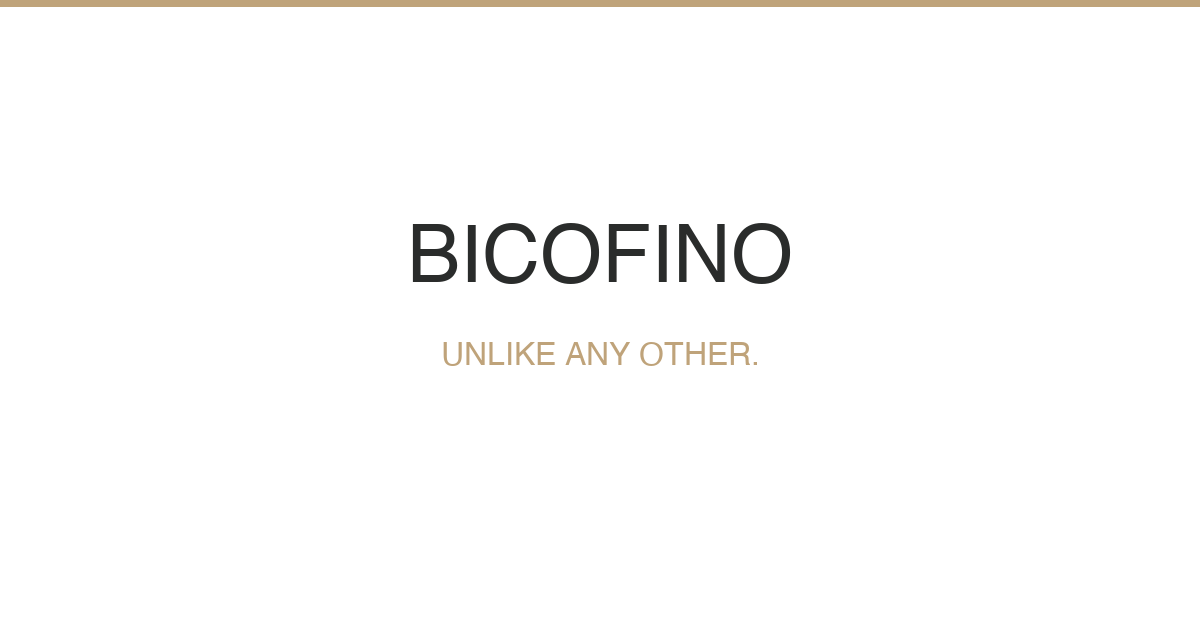
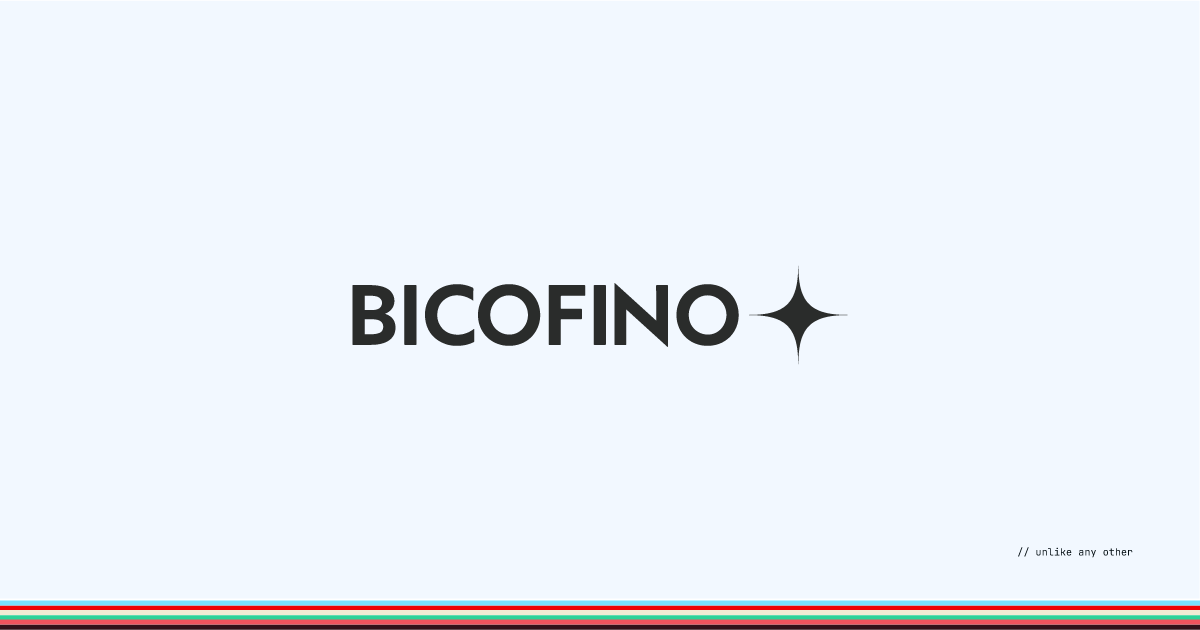
feat(web): vídeos on-field/off-field, fix responsivo mobile, textos hero
Fase 6: vídeos 500×500 inseridos em on-field e off-field; textos hero
reescritos (br/en/it); footer copyright 10px; herovideo2.webm no hero;
sponsor-emirates.svg e og-image.png atualizados.

Fase 7: fix overflow horizontal mobile — adicionado width:100% nos
sections de on-field, off-field e foundation (marginInline:auto dentro
de flex-column desativa align-self:stretch); overflow-x:clip no html
como proteção extra. HANDOFF atualizado.

diff --git a/apps/web/app/(sections)/off-field/page.tsx b/apps/web/app/(sections)/off-field/page.tsx
@@ -26,6 +26,7 @@ export default function OffFieldPage() {
       <main style={{ flex: 1, background: 'var(--bf-surface)', display: 'flex', flexDirection: 'column' }}>
         <section
           style={{
+            width: '100%',
             maxWidth: 720,
             marginInline: 'auto',
             paddingInline: 'var(--bf-space-lg)',
@@ -61,14 +62,39 @@ export default function OffFieldPage() {
           <p
             style={{
               fontFamily: '"Inter", ui-sans-serif, sans-serif',
-              fontSize: 18,
-              lineHeight: 1.65,
+              fontSize: 12,
+              lineHeight: 1.45,
+              fontWeight: 400,
+              letterSpacing: 0,
               color: 'var(--bf-text-secondary)',
-              marginBottom: 'calc(var(--bf-space-lg) * 2)',
+              marginBottom: 'var(--bf-space-lg)',
             }}
           >
             {t('off-field.intro')}
           </p>
+
+          <div
+            style={{
+              width: 500,
+              height: 500,
+              maxWidth: '100%',
+              overflow: 'hidden',
+              marginBottom: 'calc(var(--bf-space-lg) * 2)',
+            }}
+            aria-hidden="true"
+          >
+            <video
+              autoPlay
+              muted
+              loop
+              playsInline
+              aria-hidden="true"
+              style={{ width: '100%', height: '100%', objectFit: 'cover', display: 'block' }}
+            >
+              <source src="/media/video-offfield.webm" type="video/webm" />
+              <source src="/media/video-offfield.mp4" type="video/mp4" />
+            </video>
+          </div>
 
           <div style={{ marginBottom: 'calc(var(--bf-space-lg) * 2)' }}>
             <Accordion items={items} />
@@ -80,7 +106,7 @@ export default function OffFieldPage() {
               fontSize: 11,
               letterSpacing: '0.14em',
               textTransform: 'uppercase',
-              color: 'var(--bf-text-subtle)',
+              color: 'var(--bf-power-black)',
             }}
           >
             // {t('off-field.closing')}

diff --git a/apps/web/app/(sections)/on-field/page.tsx b/apps/web/app/(sections)/on-field/page.tsx
@@ -25,6 +25,7 @@ export default function OnFieldPage() {
       <main style={{ flex: 1, background: 'var(--bf-surface)', display: 'flex', flexDirection: 'column' }}>
         <section
           style={{
+            width: '100%',
             maxWidth: 720,
             marginInline: 'auto',
             paddingInline: 'var(--bf-space-lg)',
@@ -60,14 +61,39 @@ export default function OnFieldPage() {
           <p
             style={{
               fontFamily: '"Inter", ui-sans-serif, sans-serif',
-              fontSize: 18,
-              lineHeight: 1.65,
+              fontSize: 12,
+              lineHeight: 1.45,
+              fontWeight: 400,
+              letterSpacing: 0,
               color: 'var(--bf-text-secondary)',
-              marginBottom: 'calc(var(--bf-space-lg) * 2)',
+              marginBottom: 'var(--bf-space-lg)',
             }}
           >
             {t('on-field.intro')}
           </p>
+
+          <div
+            style={{
+              width: 500,
+              height: 500,
+              maxWidth: '100%',
+              overflow: 'hidden',
+              marginBottom: 'calc(var(--bf-space-lg) * 2)',
+            }}
+            aria-hidden="true"
+          >
+            <video
+              autoPlay
+              muted
+              loop
+              playsInline
+              aria-hidden="true"
+              style={{ width: '100%', height: '100%', objectFit: 'cover', display: 'block' }}
+            >
+              <source src="/media/video-onfield.webm" type="video/webm" />
+              <source src="/media/video-onfield.mp4" type="video/mp4" />
+            </video>
+          </div>
 
           <div style={{ marginBottom: 'calc(var(--bf-space-lg) * 2)' }}>
             <Accordion items={items} />
@@ -79,7 +105,7 @@ export default function OnFieldPage() {
               fontSize: 11,
               letterSpacing: '0.14em',
               textTransform: 'uppercase',
-              color: 'var(--bf-text-subtle)',
+              color: 'var(--bf-power-black)',
             }}
           >
             // {t('on-field.closing')}

diff --git a/apps/web/content/br.ts b/apps/web/content/br.ts
@@ -15,11 +15,11 @@ export const br = {
   // Hero — Mensch
   'home.mensch.eyebrow': 'UNLIKE ANY OTHER.',
   'home.mensch.p1':
-    'O Bicofino Group reúne o que raramente se encontra junto: talento real, curadoria precisa e acesso que leva anos para construir.',
+    'Esporte fala a língua da emoção. Marca fala a língua do consumo. Entre uma e outra mora um dos maiores potenciais inexplorados do marketing — e é nele que o Bicofino opera.',
   'home.mensch.p2':
-    'Operamos em duas frentes — On Field e Off Field — com o mesmo padrão de exigência, o mesmo vocabulário visual e o mesmo compromisso com o detalhe.',
+    'Conectamos atletas, personalidades e marcas premium em ativações que respeitam os dois ritmos. On Field e Off Field, com o mesmo padrão de exigência, o mesmo vocabulário visual, o mesmo compromisso com o detalhe.',
   'home.mensch.p3':
-    'Cada conexão é estruturada para que todos os lados ganhem. Cada entrega passa pelo filtro do que é verdadeiramente bom.',
+    'Talento real. Acesso que leva anos para construir. Curadoria em cada conexão. Cada entrega passa pelo filtro do que é verdadeiramente bom.',
 
   // Footer
   'footer.address': 'av. pedroso de morais 1619 | 05019 001 | pinheiros | são paulo | sp | brasil',

diff --git a/apps/web/content/en.ts b/apps/web/content/en.ts
@@ -15,11 +15,11 @@ export const en = {
   // Hero — Mensch
   'home.mensch.eyebrow': 'UNLIKE ANY OTHER.',
   'home.mensch.p1':
-    'Bicofino Group brings together what rarely coexists: genuine talent, precise curation, and access that takes years to build.',
+    'Sport speaks the language of emotion. Brand speaks the language of consumption. Between the two lies one of marketing\'s greatest untapped potentials — and that is where Bicofino operates.',
   'home.mensch.p2':
-    'We operate across two fronts — On Field and Off Field — with the same standard of excellence, the same visual language, and the same commitment to detail.',
+    'We connect athletes, personalities and premium brands in activations that respect both rhythms. On Field and Off Field, with the same standard of excellence, the same visual language, the same commitment to detail.',
   'home.mensch.p3':
-    'Every connection is structured so all parties win. Every deliverable passes the filter of what is truly good.',
+    'Genuine talent. Access that takes years to build. Curation in every connection. Every deliverable passes the filter of what is truly good.',
 
   // Footer
   'footer.address': 'av. pedroso de morais 1619 | 05019 001 | pinheiros | são paulo | sp | brasil',

diff --git a/apps/web/content/it.ts b/apps/web/content/it.ts
@@ -15,11 +15,11 @@ export const it = {
   // Hero — Mensch
   'home.mensch.eyebrow': 'UNLIKE ANY OTHER.',
   'home.mensch.p1':
-    'Bicofino Group riunisce ciò che raramente coesiste: talento autentico, cura precisa e accesso che richiede anni per essere costruito.',
+    'Lo sport parla la lingua dell\'emozione. Il brand parla la lingua del consumo. Tra i due risiede uno dei più grandi potenziali inesplorati del marketing — ed è lì che opera Bicofino.',
   'home.mensch.p2':
-    'Operiamo su due fronti — On Field e Off Field — con lo stesso standard di eccellenza, lo stesso linguaggio visivo e lo stesso impegno per il dettaglio.',
+    'Connettiamo atleti, personalità e brand premium in attivazioni che rispettano entrambi i ritmi. On Field e Off Field, con lo stesso standard di eccellenza, lo stesso linguaggio visivo, lo stesso impegno per il dettaglio.',
   'home.mensch.p3':
-    'Ogni connessione è strutturata affinché tutte le parti vincano. Ogni consegna passa il filtro di ciò che è genuinamente buono.',
+    'Talento autentico. Accesso che richiede anni per essere costruito. Cura in ogni connessione. Ogni consegna passa il filtro di ciò che è genuinamente buono.',
 
   // Footer
   'footer.address': 'av. pedroso de morais 1619 | 05019 001 | pinheiros | são paulo | sp | brasil',

diff --git a/apps/web/app/(sections)/foundation/page.tsx b/apps/web/app/(sections)/foundation/page.tsx
@@ -25,6 +25,7 @@ export default function FoundationPage() {
       <main style={{ flex: 1, background: 'var(--bf-surface)', display: 'flex', flexDirection: 'column' }}>
         <section
           style={{
+            width: '100%',
             maxWidth: 720,
             marginInline: 'auto',
             paddingInline: 'var(--bf-space-lg)',
@@ -79,7 +80,7 @@ export default function FoundationPage() {
               fontSize: 11,
               letterSpacing: '0.14em',
               textTransform: 'uppercase',
-              color: 'var(--bf-text-subtle)',
+              color: 'var(--bf-power-black)',
             }}
           >
             // {t('foundation.closing')}

diff --git a/apps/web/components/home/HeroBlock.tsx b/apps/web/components/home/HeroBlock.tsx
@@ -45,7 +45,7 @@ export function HeroBlock() {
                 aria-hidden="true"
                 style={{ width: '100%', height: '100%', objectFit: 'cover', display: 'block' }}
               >
-                <source src="/media/herovideo.webm" type="video/webm" />
+                <source src="/media/herovideo2.webm" type="video/webm" />
                 <source src="/media/herovideo.mp4" type="video/mp4" />
                 {/* eslint-disable-next-line @next/next/no-img-element */}
                 <img src="/media/herovideo.gif" alt="" style={{ width: '100%', height: '100%', objectFit: 'cover', display: 'block' }} />

diff --git a/apps/web/components/layout/Footer.tsx b/apps/web/components/layout/Footer.tsx
@@ -136,7 +136,7 @@ export function Footer() {
 
         {/* Right: copyright + lang switcher */}
         <div style={{ display: 'flex', alignItems: 'center', gap: 'var(--bf-space-lg)' }}>
-          <span style={monoStyle}>{t('footer.copyright')}</span>
+          <span style={{ ...monoStyle, fontSize: 10 }}>{t('footer.copyright')}</span>
 
           {/* Language switcher */}
           <div

diff --git a/apps/web/app/globals.css b/apps/web/app/globals.css
@@ -50,6 +50,7 @@ html[data-theme-loaded] body {
 
 html {
   scroll-behavior: smooth;
+  overflow-x: clip;
   background: var(--bf-surface); /* shows through body's rounded corners */
 }
 

diff --git a/HANDOFF.md b/HANDOFF.md
@@ -13,8 +13,25 @@ Leia do início ao fim antes de qualquer ação.
 | storybook  | 6006   | —                                  | ✅ estável   |
 | apps/web   | 3002   | https://bicofino-web.vercel.app    | ✅ em prod   |
 
-**Último commit estável:** `4bb60bf` — fix(web): nav order on-field→off-field→foundation, Inter Bold nav, H1 44px, footer icon gap
+**Último deploy estável:** `dpl_9FwfxtUmXPctkt2iekm9wnzQ2Vy3` — fase 7 em produção (11 mai 2026)
 **Branch ativa:** main
+
+### Fase 7 — fix responsivo mobile (11 mai 2026) ✅ em produção
+
+- **on-field/page.tsx, off-field/page.tsx, foundation/page.tsx** — adicionado `width: '100%'` ao `<section>`. Causa: dentro de flex-column, `marginInline: 'auto'` cancela o `align-self: stretch`, fazendo o section se dimensionar pelo conteúdo (~500-550px) em vez do viewport. Corrigido com `width: '100%'; maxWidth: 720`.
+- **globals.css** — adicionado `overflow-x: clip` ao `html` como proteção extra contra overflow horizontal em qualquer página.
+
+### Fase 6 — alterações (11 mai 2026) ✅ em produção
+
+- **HeroBlock.tsx** — fonte do vídeo hero trocada: `herovideo.webm` → `herovideo2.webm`.
+- **Footer.tsx** — copyright reduzido de 12px → 10px (`fontSize: 10` no span do copyright).
+- **on-field/page.tsx** — vídeo `video-onfield.webm` (500×500px) inserido entre intro e accordion; intro caption 12/1.45/400; CTA closing `--bf-power-black`.
+- **off-field/page.tsx** — vídeo `video-offfield.webm` (500×500px) inserido entre intro e accordion; intro caption 12/1.45/400; CTA closing `--bf-power-black`.
+- **foundation/page.tsx** — CTA closing `--bf-power-black`.
+- **content/br.ts, en.ts, it.ts** — 3 parágrafos hero (home.mensch.p1/p2/p3) reescritos com novo texto.
+
+**Assets manuais necessários em `public/media/`** (uploads já realizados pelo usuário):
+- `herovideo2.webm`, `video-onfield.webm`, `video-onfield.mp4`, `video-offfield.webm`, `video-offfield.mp4`
 
 ### Fase 5 — alterações (11 mai 2026)
 
@@ -73,7 +90,7 @@ apps/web/
 
 **Assets manuais (não commitados, só upload manual):**
 - `public/brand/` — logo-bicofino.svg, icon-diamond-bicofino.svg, icon-club.svg
-- `public/media/` — herovideo.webm, herovideo.mp4, herovideo.gif
+- `public/media/` — herovideo.webm, herovideo.mp4, herovideo.gif, herovideo2.webm, video-onfield.webm, video-onfield.mp4, video-offfield.webm, video-offfield.mp4
 
 ---
 
@@ -121,7 +138,7 @@ const { t } = useLang()
   <Header ... />
   <MobileMenu ... />
   <main style={{ flex: 1, background: 'var(--bf-surface)' }}>  {/* azul — NÃO branco */}
-    <section style={{ maxWidth: 720, marginInline: 'auto', paddingBlock: 'calc(32px * 3)' }}>
+    <section style={{ width: '100%', maxWidth: 720, marginInline: 'auto', paddingBlock: 'calc(32px * 3)' }}>
 
       {/* Eyebrow da página */}
       <p style={{ fontFamily: 'JetBrains Mono', fontSize: 11, textTransform: 'uppercase',